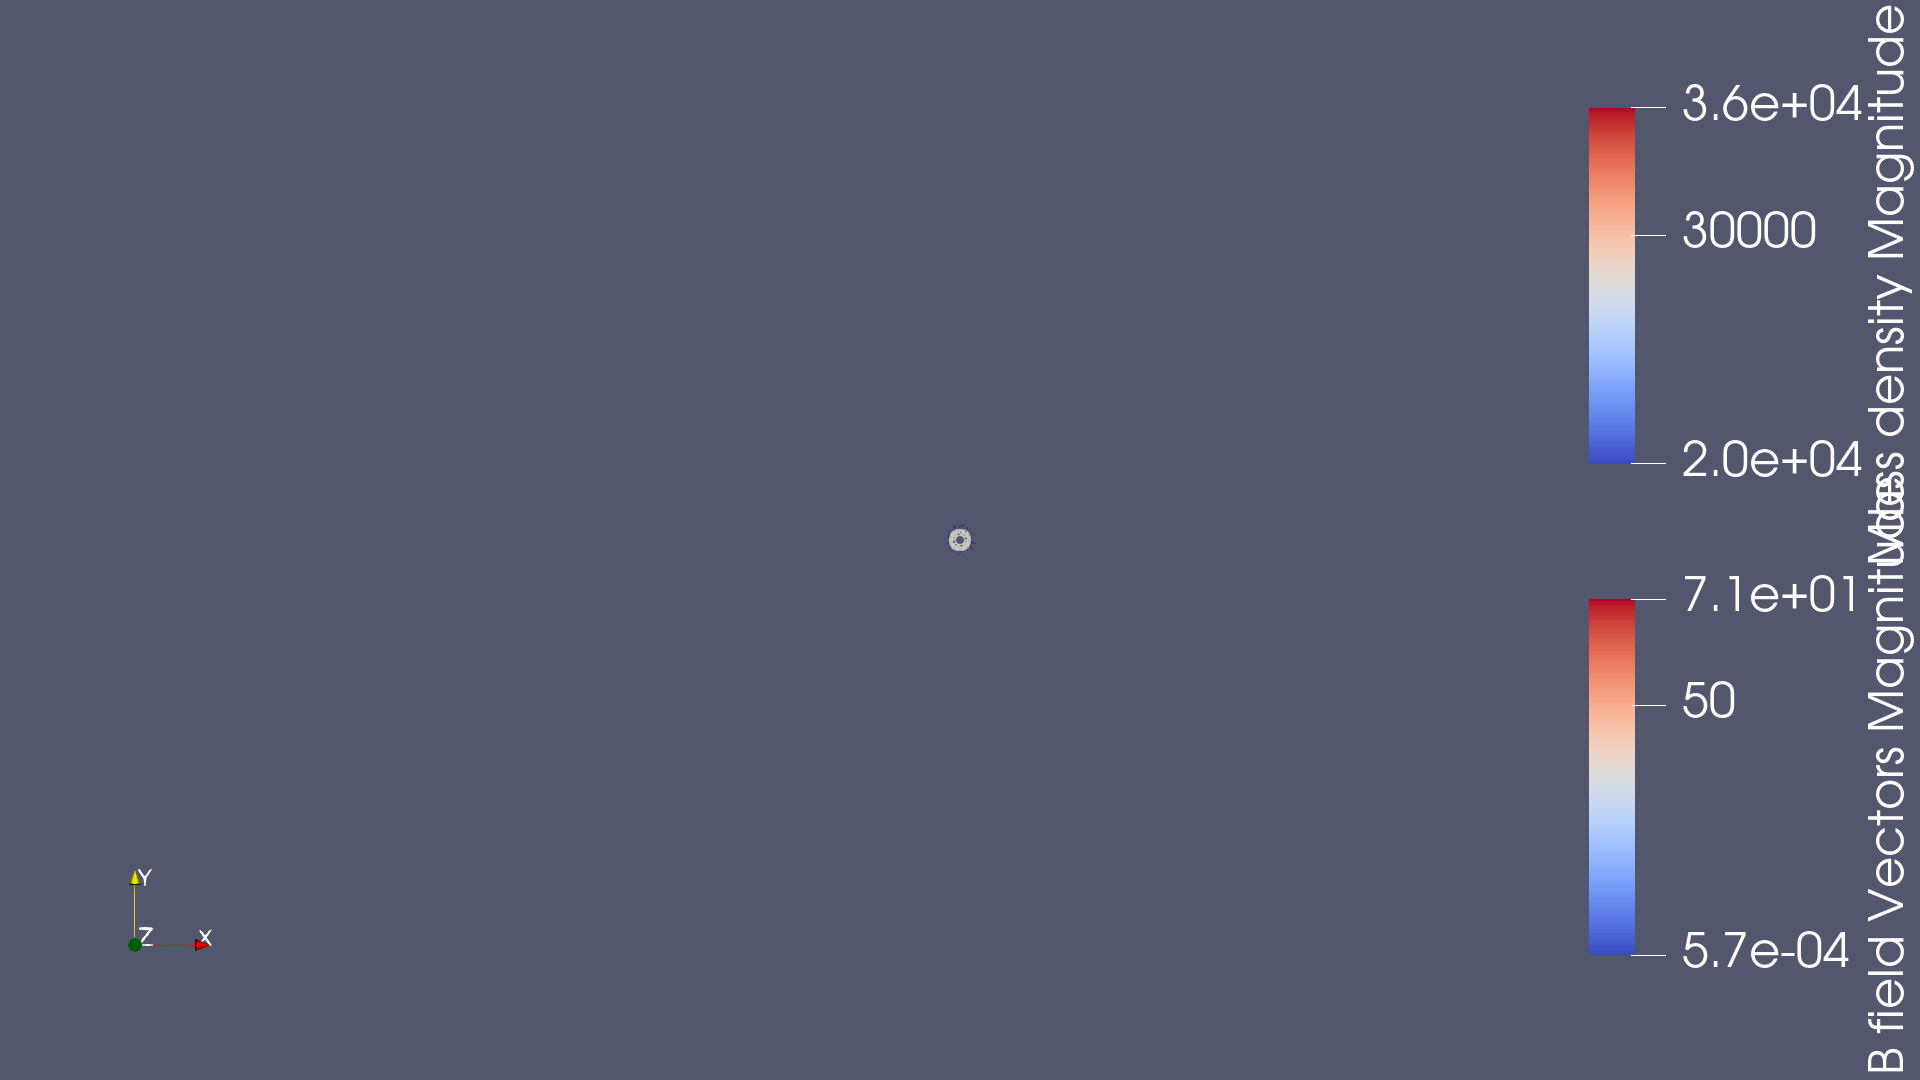
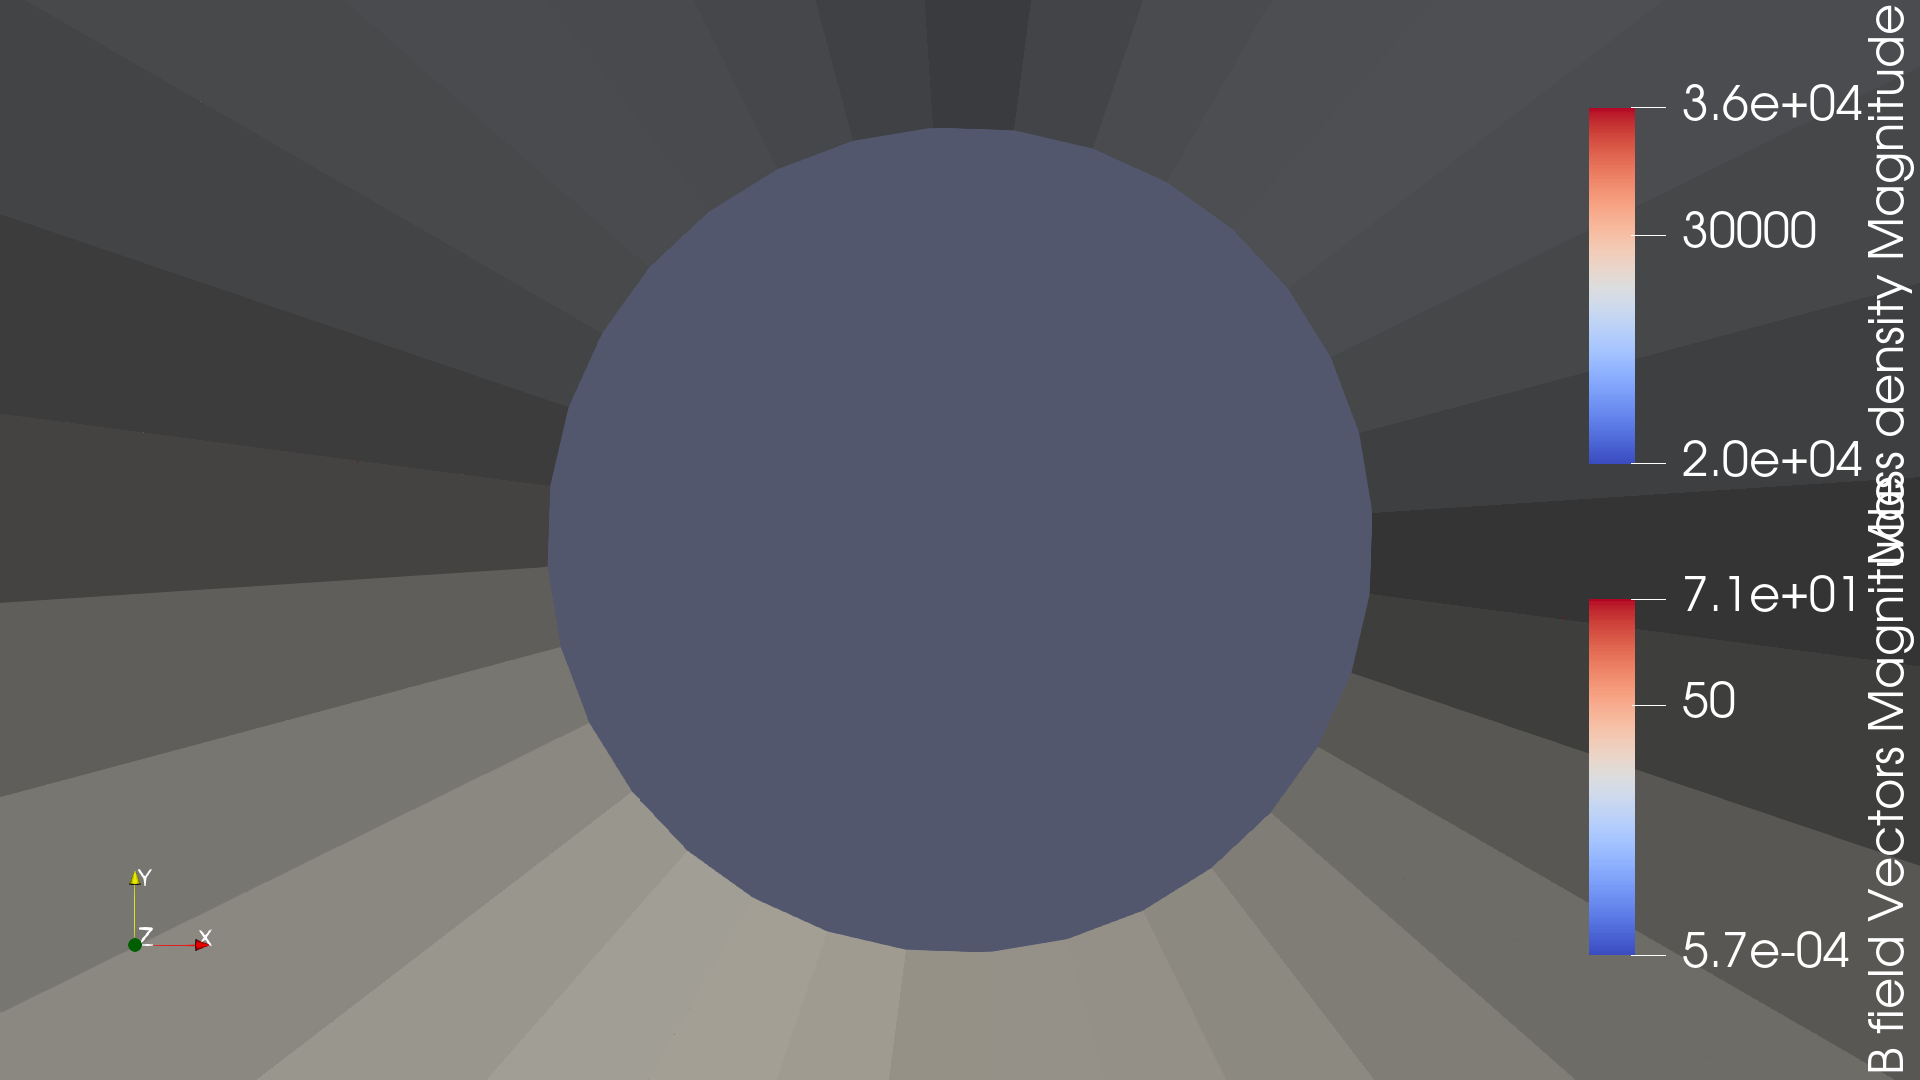
add scale factor to paraview parser

diff --git a/frontend/parse.py b/frontend/parse.py
@@ -7,6 +7,8 @@ from glob import glob
 from sys import argv
 import vtk
 
+scale_factor = 1000
+
 # Define a function to convert a value to an integer or a float, or leave it as is.
 def convert_value(e):
     try:
@@ -112,9 +114,9 @@ def main():
             fields = b_point_fields[pos[0]]
             f_x, f_y, f_z = 0, 0, 0
             for f in fields:
-                f_x += f[0]
-                f_y += f[1]
-                f_z += f[2]
+                f_x += f[0] * scale_factor
+                f_y += f[1] * scale_factor
+                f_z += f[2] * scale_factor
             # field_mag = sqrt(sum(x * x for x in (f_x, f_y, f_z)))
             # vtk_b_mag.InsertNextTuple1(field_mag)
             vtk_b.InsertNextTuple3(f_x, f_y, f_z)
@@ -147,9 +149,9 @@ def main():
             fields = e_point_fields.get(pos[0], [])  # Get E field values for the current node (if available)
             e_x, e_y, e_z = 0, 0, 0
             for f in fields:
-                e_x += f[0]
-                e_y += f[1]
-                e_z += f[2]
+                e_x += f[0] * scale_factor
+                e_y += f[1] * scale_factor
+                e_z += f[2] * scale_factor
             #field_mag = sqrt(sum(x * x for x in (e_x, e_y, e_z)))
             #vtk_e_mag.InsertNextTuple1(field_mag)
             vtk_e.InsertNextTuple3(e_x, e_y, e_z)
@@ -182,7 +184,7 @@ def main():
 
     # Create VTK triangle cells from the faces set.
     for pos in pos_vals:
-        vtk_points.InsertNextPoint(pos[1:])
+        vtk_points.InsertNextPoint([x * scale_factor for x in pos[1:]])
     for (face, mass) in faces.items():
         vtk_face = vtk.vtkTriangle()
         ids = vtk_face.GetPointIds()

diff --git a/frontend/main.py b/frontend/main.py
@@ -33,7 +33,7 @@ def main():
             print("magnet extraction done, parsing into paraview")
             calling_paraview.run_parser()
             print("paraview parsing done")
-            calling_paraview.run_displayer("E" if values["E"] else "B")
+            calling_paraview.run_displayer(field)
             print("display conversion done")
             break
         if event == 'Exit':
